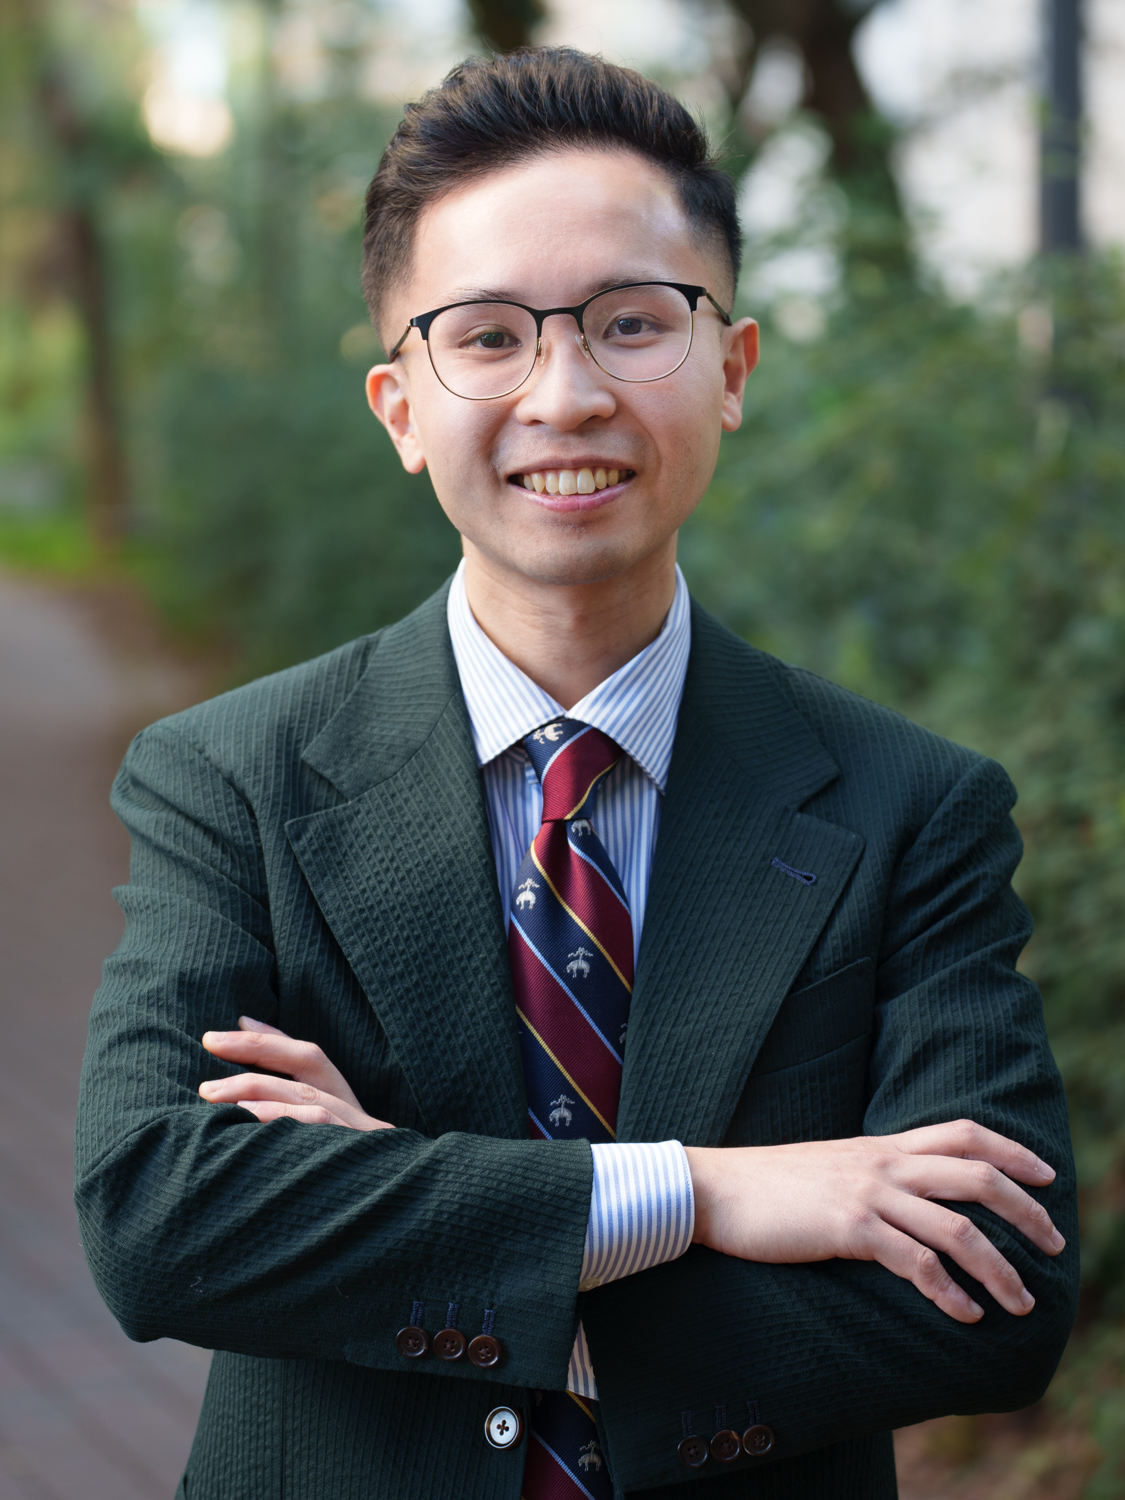
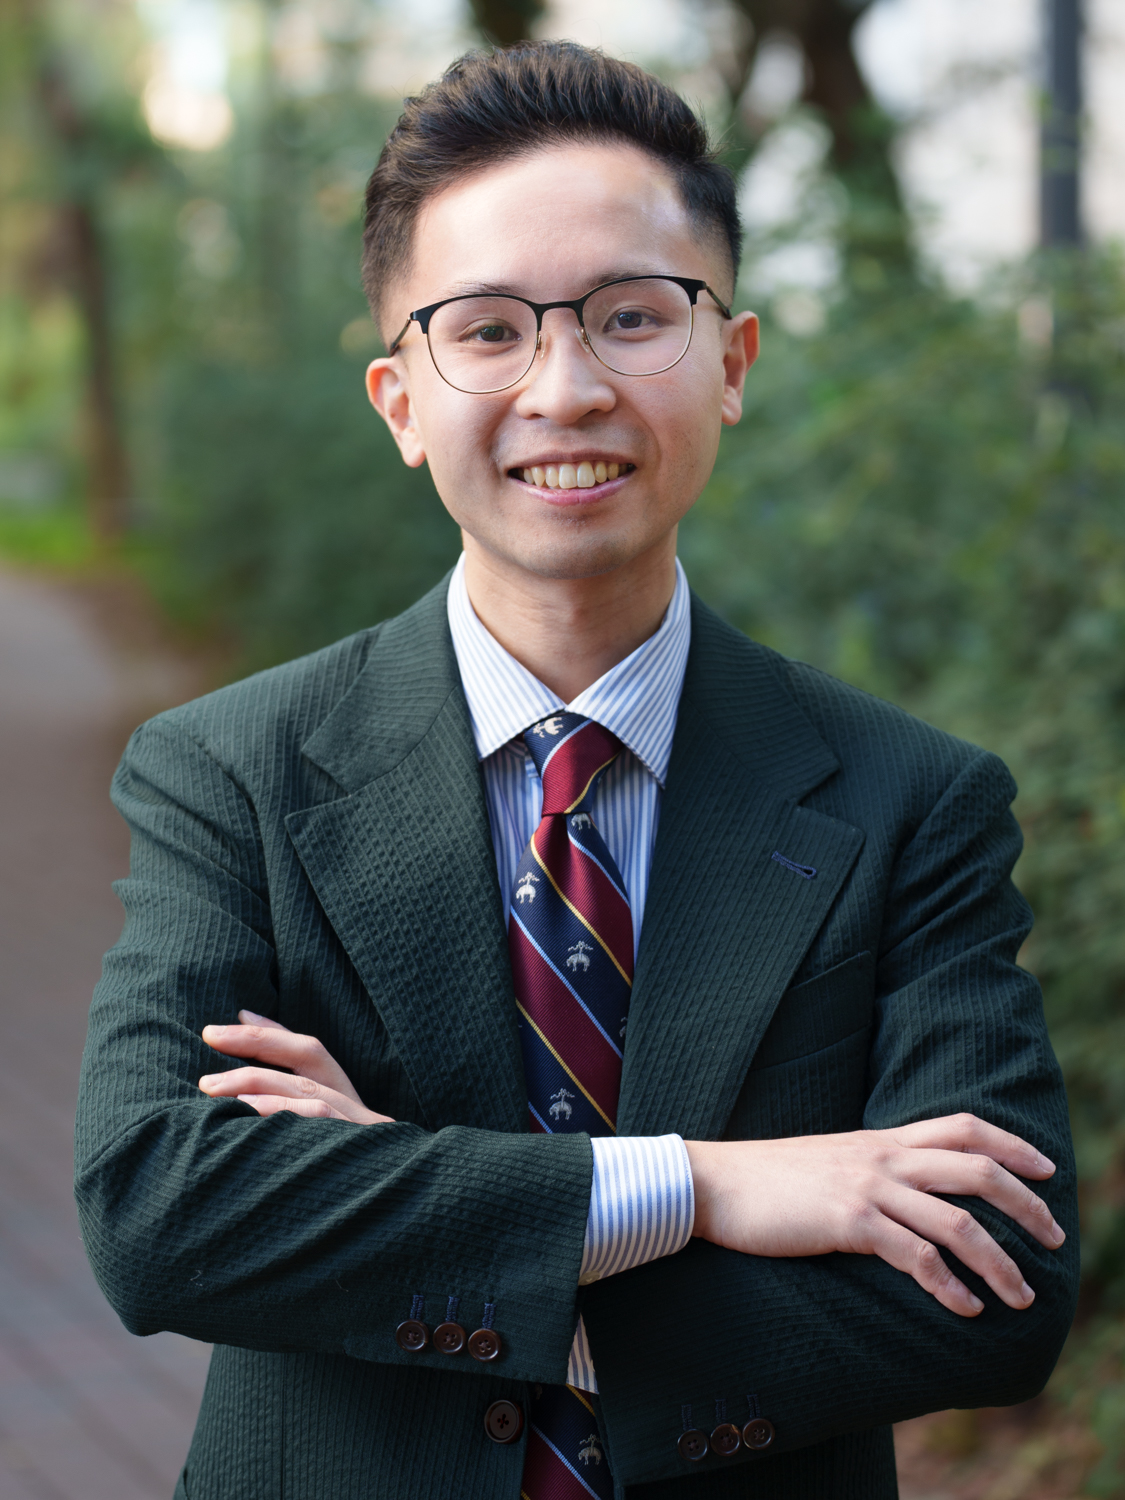
Touched up profile photo and resized on main page

diff --git a/main.html b/main.html
@@ -30,7 +30,7 @@ window.location.replace("index.html?main");
 </head>
 <body class="content">
 <div class="box" style="display:inline-block;">
-<img src="profile.jpg" alt="Jasper's Portrait" style="max-height:210px; height:30%; border: 1px solid #A2A2A2; margin-left:0px; margin-right:30px; margin-bottom:10px; float:left"/>
+<img src="profile.jpg" alt="Jasper's Portrait" style="max-height:230px; height:30%; border: 1px solid #A2A2A2; margin-left:0px; margin-right:25px; margin-bottom:5px; float:left"/>
 I am an Assistant Professor in the Department of Computer Science at UC Davis.
 Previously, I was a postdoc with <a href="http://www.iliasdiakonikolas.org/" target="_top">Ilias Diakonikolas</a>, and my PhD was advised by <a href="https://www.cs.purdue.edu/homes/pvaliant/index.htm"
 target="_top">Paul Valiant</a>.<br>
